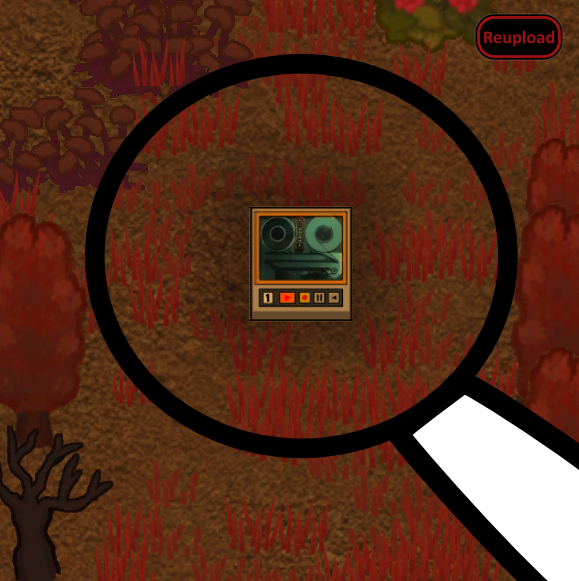
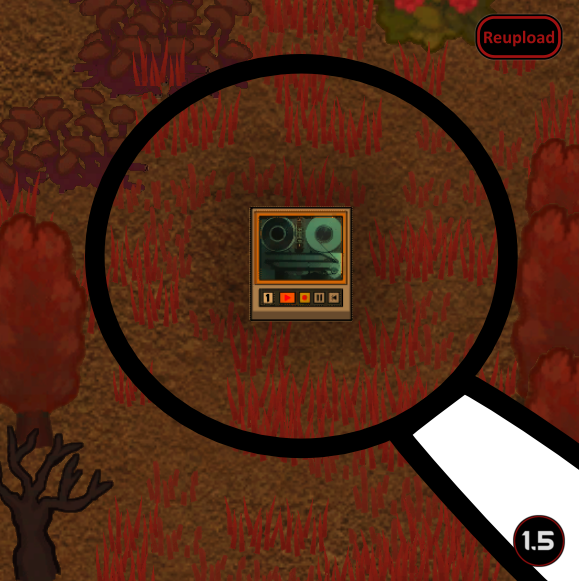
Mod updated for 1.5 and passed autotests

Changed region(s): [[0.8705, 0.8675, 0.9948, 0.9914]]

diff --git a/Source/ShowModDesignators/ShowModDesignators.cs b/Source/ShowModDesignators/ShowModDesignators.cs
@@ -24,7 +24,7 @@ public class ShowModDesignators
 
                     if (allDef is not TraitDef traitDef)
                     {
-                        if (allDef is not ThingDef { race: { } } thingDef)
+                        if (allDef is not ThingDef { race: not null } thingDef || thingDef.IsCorpse)
                         {
                             continue;
                         }

diff --git a/README.md b/README.md
@@ -31,10 +31,13 @@ https://github.com/RimWorld-CCL-Reborn/ShowModDesignators
 
 -  See if the the error persists if you just have this mod and its requirements active.
 -  If not, try adding your other mods until it happens again.
--  Post your error-log using https://steamcommunity.com/workshop/filedetails/?id=818773962]HugsLib and command Ctrl+F12
+-  Post your error-log using https://steamcommunity.com/workshop/filedetails/?id=818773962]HugsLib or the standalone https://steamcommunity.com/sharedfiles/filedetails/?id=2873415404]Uploader and command Ctrl+F12
 -  For best support, please use the Discord-channel for error-reporting.
 -  Do not report errors by making a discussion-thread, I get no notification of that.
 -  If you have the solution for a problem, please post it to the GitHub repository.
+-  Use https://github.com/RimSort/RimSort/releases/latest]RimSort to sort your mods
 
 
-https://steamcommunity.com/sharedfiles/filedetails/changelog/2891633620]Last updated 2022-12-11
+
+https://steamcommunity.com/sharedfiles/filedetails/changelog/2891633620]![Image](https://img.shields.io/github/v/release/emipa606/ShowModDesignators?label=latest%20version&style=plastic&color=9f1111&labelColor=black)
+
